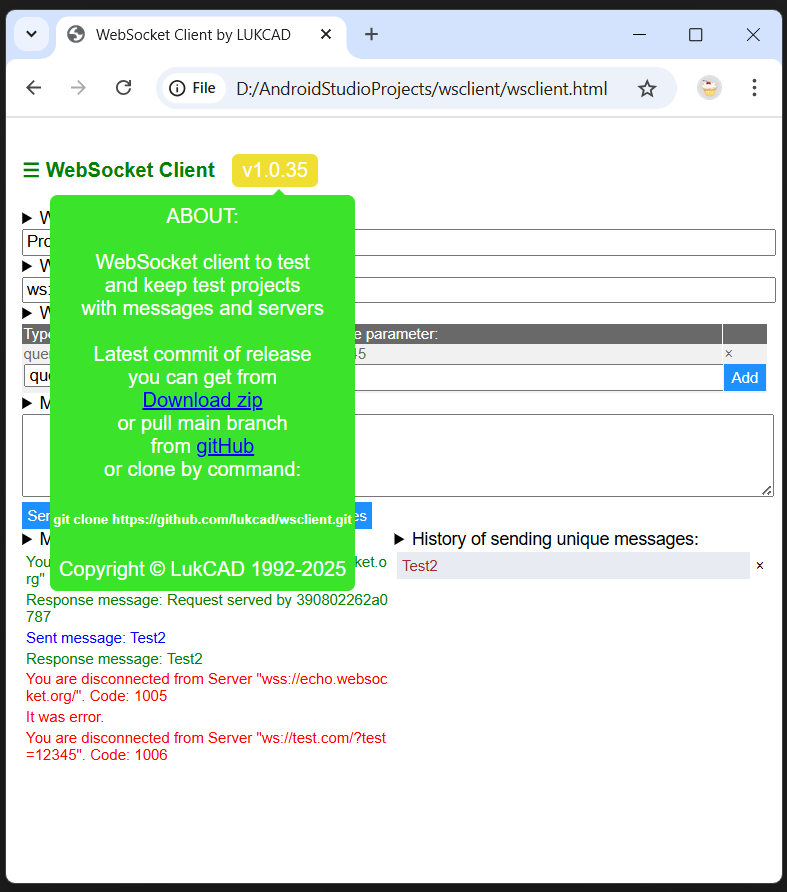
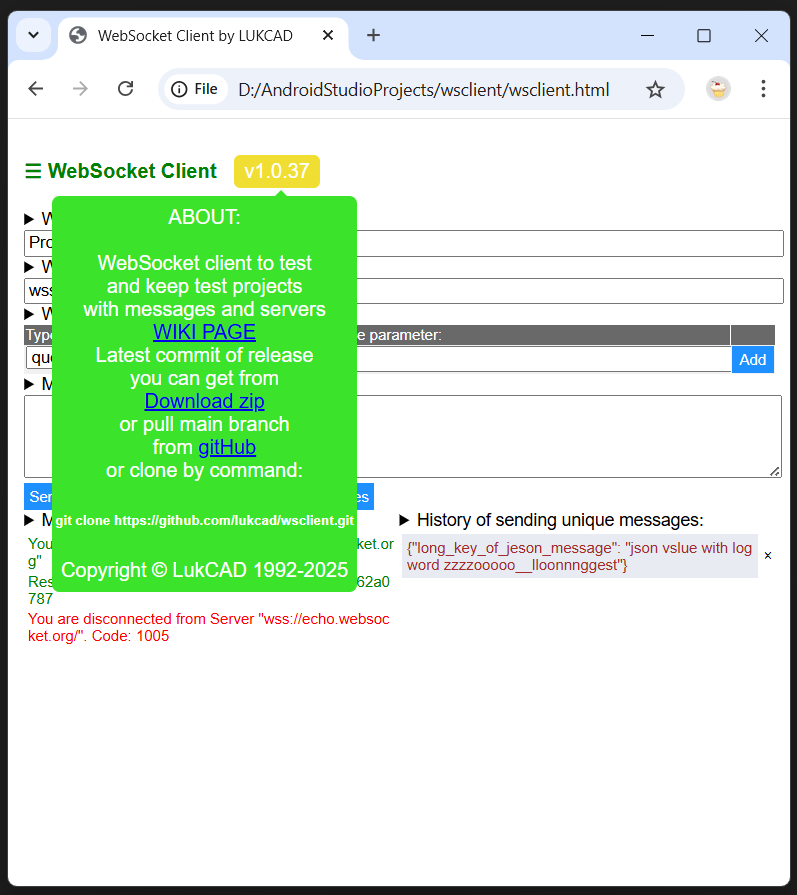
version 1.0.37

diff --git a/wsclient.html b/wsclient.html
@@ -655,7 +655,7 @@
             <div style="cursor:pointer;white-space: nowrap" onclick="openNav()">
                 <h4>&#9776; WebSocket Client</h4>
             </div>
-            <div id="release" title="About program">v1.0.36</div>
+            <div id="release" title="About program">v1.0.37</div>
             <div id="newrelease" title="About new release"></div>
         </div>
 

diff --git a/README.md b/README.md
@@ -1,5 +1,7 @@
 # Websocket client WSCLIENT.HTML
 
+Clone or [download project](https://github.com/lukcad/wsclient.git) and use locally only file `wsclient.html` as a WebSocket client.
+
 ## Overview
 
 `wsclient.html` is a single client file which works in all web browsers by using just only HTML and pure JavaScript with saving history, ws-servers and your projects into local storage of web browser.
@@ -33,7 +35,10 @@
   - button `Disconnect` to stop connection to WS server.
   - button `Reconnect` to start connection to WS server again after stop.
   - button `Clean Messages` to remove messages from panel `Messages`.
-  - button `Send` - to send message from text box to WS and get response. if sending succeed then sending message will be added to history if it is unique.
+  - button `Send` - to send `Message` from text box to WS-server and get response:
+    - if sending succeed then the sent message will be added to history if it is unique and purged from `Message` text box.
+    - if it was detected that the socket was not opened yet or previously closed then `alert message` will appear with explanation of situation and asking you to press button `Reconnect` to let you repeat sending mssage from `Message` text box.
+    - if during sending with opened web socket some error were detected on server side, the response message returns code or error and web socket will be closed.
   - List of `WS Parameters` where you can at this moment:
     - add new parameter with type `query` and your required name and value;
     - add new value with type `head` and only for `Sec-WebSocket-Protocol` parameter, you can add many such parameters. This parameter is considered by WS-Servers as a `Protocol` name which is specific of algorithm implemented by server.
@@ -127,3 +132,4 @@ Notices:
 ![alt text](image-5.png)
 ![alt text](image-6.png)
 ![alt text](image-7.png)
+![alt text](image-8.png)
